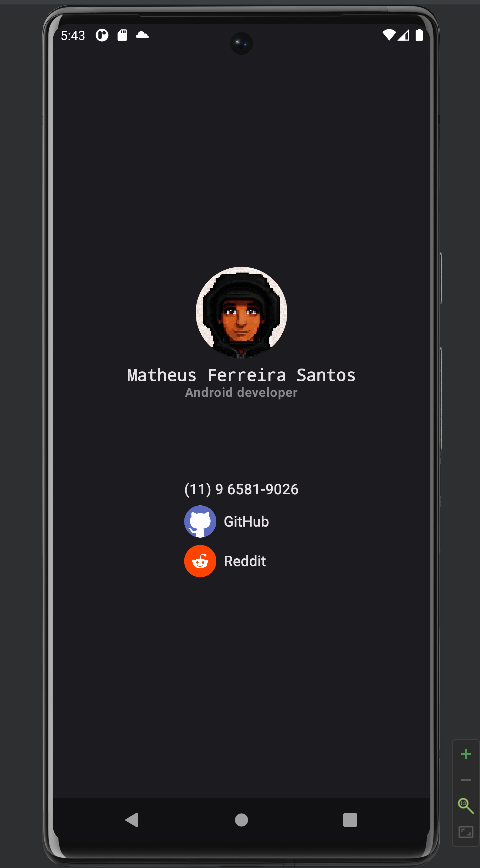
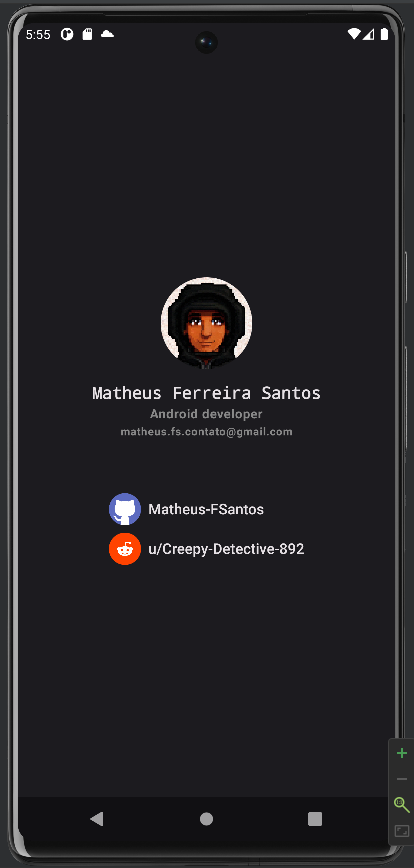
refactor: using strings.xml to pattern strings on app

diff --git a/app/src/main/java/io/github/matheusfsantos/businesscard/MainActivity.kt b/app/src/main/java/io/github/matheusfsantos/businesscard/MainActivity.kt
@@ -5,7 +5,6 @@ import androidx.activity.ComponentActivity
 import androidx.activity.compose.setContent
 import androidx.activity.enableEdgeToEdge
 import androidx.compose.foundation.Image
-import androidx.compose.foundation.isSystemInDarkTheme
 import androidx.compose.foundation.layout.Arrangement
 import androidx.compose.foundation.layout.Box
 import androidx.compose.foundation.layout.Column
@@ -32,6 +31,12 @@ class MainActivity : ComponentActivity() {
         super.onCreate(savedInstanceState)
         enableEdgeToEdge()
 
+        val fullName = resources.getString(R.string.full_name);
+        val title = resources.getString(R.string.title);
+        val email = resources.getString(R.string.email);
+        val github = resources.getString(R.string.github);
+        val reddit = resources.getString(R.string.reddit);
+
         setContent {
             BusinessCardTheme {
                 Scaffold(modifier = Modifier.fillMaxSize()) { innerPadding ->
@@ -41,7 +46,7 @@ class MainActivity : ComponentActivity() {
                     ) {
                         Column(
                             horizontalAlignment = Alignment.CenterHorizontally,
-                            verticalArrangement = Arrangement.spacedBy(8.dp),
+                            verticalArrangement = Arrangement.spacedBy(16.dp),
                         ) {
                             Image(
                                 contentDescription = "User image",
@@ -53,29 +58,31 @@ class MainActivity : ComponentActivity() {
 
                             Column(
                                 horizontalAlignment = Alignment.CenterHorizontally,
-                                verticalArrangement = Arrangement.spacedBy(88.dp)
+                                verticalArrangement = Arrangement.spacedBy(60.dp)
                             ) {
                                 Column(
-                                    horizontalAlignment = Alignment.CenterHorizontally
+                                    horizontalAlignment = Alignment.CenterHorizontally,
+                                    verticalArrangement = Arrangement.spacedBy(4.dp)
                                 ) {
                                     Text(
-                                        text = "Matheus Ferreira Santos",
+                                        text = fullName,
                                         style = Typography.titleMedium,
                                     )
                                     Text(
-                                        text = "Android developer",
+                                        text = title,
                                         style = Typography.bodySmall,
                                         color = Color.Gray
+                                    )
+                                    Text(
+                                        text = email,
+                                        style = Typography.labelSmall,
+                                        color = Color.Gray,
                                     )
                                 }
 
                                 Column(
                                     verticalArrangement = Arrangement.spacedBy(8.dp),
                                 ) {
-                                    Text(
-                                        text = "(11) 9 6581-9026",
-                                        style = Typography.bodyMedium,
-                                    )
                                     Row(
                                         horizontalArrangement = Arrangement.spacedBy(8.dp),
                                         verticalAlignment = Alignment.CenterVertically
@@ -88,7 +95,7 @@ class MainActivity : ComponentActivity() {
                                                 .clip(RoundedCornerShape(100))
                                         )
                                         Text(
-                                            text = "GitHub",
+                                            text = github,
                                             style = Typography.bodyMedium,
                                         )
                                     }
@@ -105,7 +112,7 @@ class MainActivity : ComponentActivity() {
                                                 .clip(RoundedCornerShape(100))
                                         )
                                         Text(
-                                            text = "Reddit",
+                                            text = reddit,
                                             style = Typography.bodyMedium,
                                         )
                                     }

diff --git a/app/src/main/java/io/github/matheusfsantos/businesscard/ui/theme/Type.kt b/app/src/main/java/io/github/matheusfsantos/businesscard/ui/theme/Type.kt
@@ -15,6 +15,13 @@ val Typography = Typography(
         lineHeight = 24.sp,
         letterSpacing = 0.5.sp
     ),
+    labelSmall = TextStyle(
+        fontFamily = FontFamily.Default,
+        fontWeight = FontWeight.Bold,
+        fontSize = 12.sp,
+        lineHeight = 24.sp,
+        letterSpacing = 0.5.sp
+    ),
     bodyMedium = TextStyle(
         fontFamily = FontFamily.Default,
         fontWeight = FontWeight.SemiBold,
